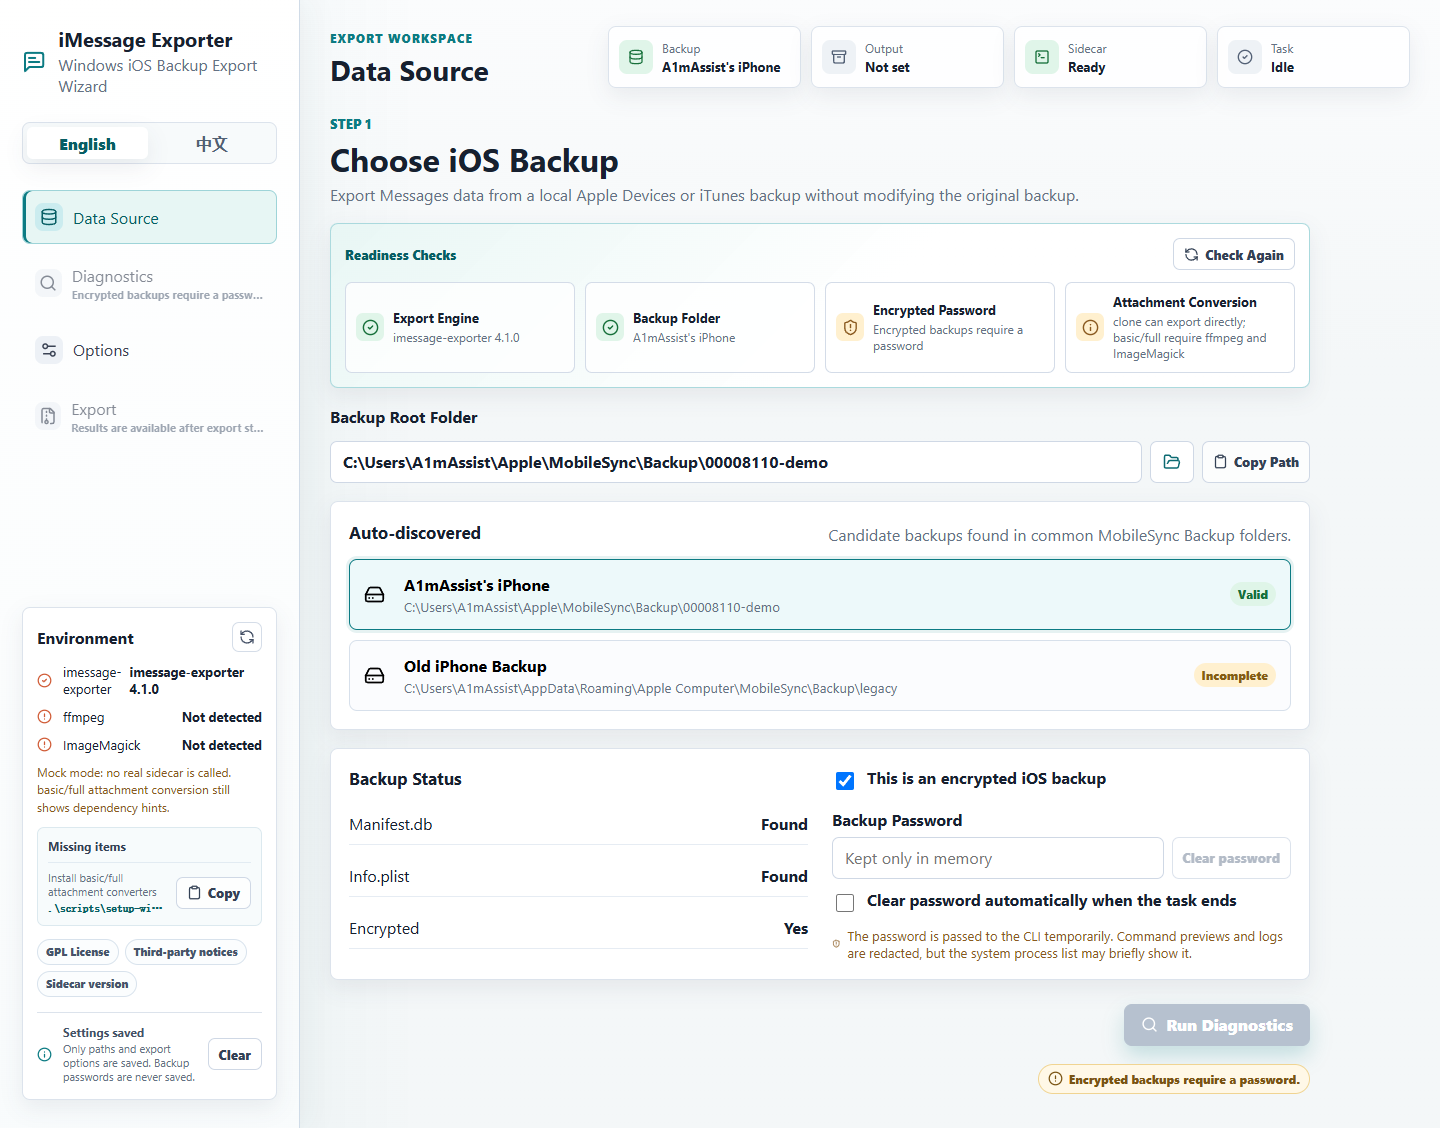
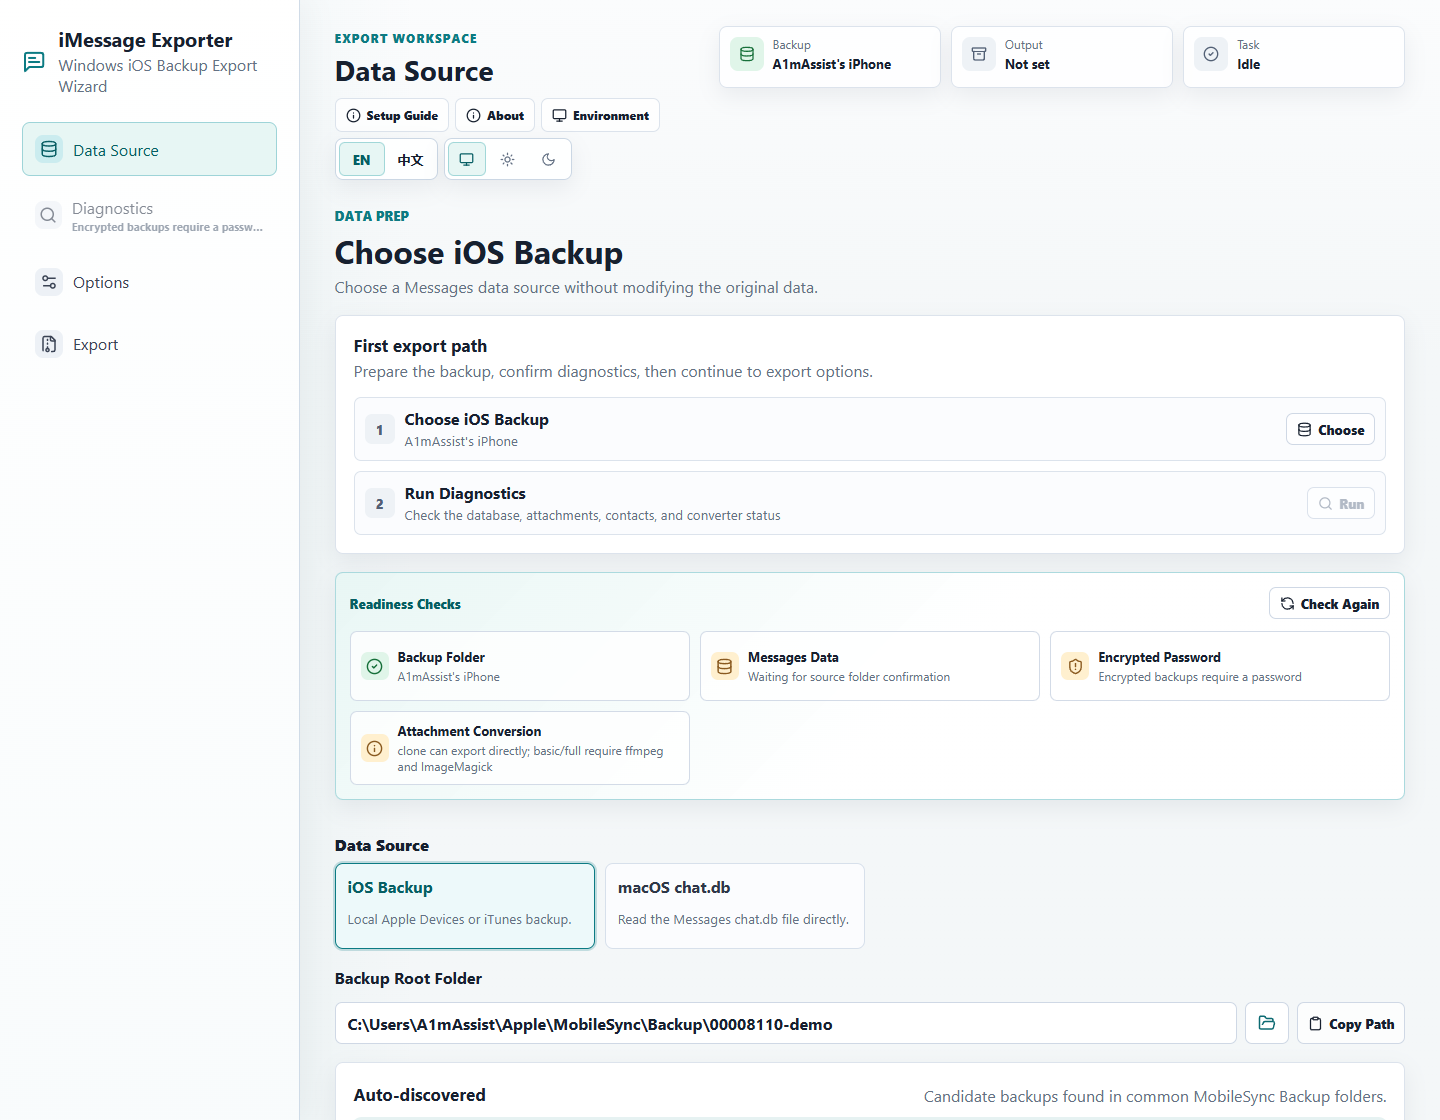
Refresh README for 0.2.2
Refresh README and screenshots for the current 0.2.2 product flow.

diff --git a/README.md b/README.md
@@ -2,9 +2,16 @@
 
 [中文说明](./README.zh-CN.md)
 
-`iMessage Exporter GUI` is a desktop interface with the [`imessage-exporter`](https://github.com/ReagentX/imessage-exporter) Rust engine built in. It exports SMS and iMessage data from local iOS backups to HTML, TXT, or JSONL.
+`iMessage Exporter GUI` is a desktop app for exporting Messages data with the
+[`imessage-exporter`](https://github.com/ReagentX/imessage-exporter) Rust engine
+built in. The installer bundles the imessage-exporter Rust engine, so it can
+export SMS and iMessage data from a local iOS backup or a macOS `chat.db` file
+to HTML, TXT, or JSONL.
 
-It turns the common export flow into a guided app: choose an iOS backup, check backup health, set export options, run the export, and open the result folder.
+The app turns the export flow into a guided workspace: choose a data source, run
+diagnostics, review export options, start the export, and open the result folder.
+Users do not need to install Rust, Node.js, Visual Studio Build Tools, or a
+separate `imessage-exporter.exe`.
 
 ## Screenshots
 
@@ -12,18 +19,19 @@ It turns the common export flow into a guided app: choose an iOS backup, check b
 
 ![Export complete](./preview/example-results.png)
 
-The `example-*` images are README screenshots. `react-mock-*` images are generated by the mock UI smoke test and are kept as release QA artifacts.
+The `example-*` images are README screenshots. `react-mock-*` images are
+generated by the mock UI smoke test and are kept as release QA artifacts.
 
 ## Download
 
-You do not need to clone the source code or install Node.js, Rust, or Visual Studio Build Tools. Download the current installer from GitHub Releases:
+Download the current installer from GitHub Releases:
 
-[Download the current release](https://github.com/A1mAssist/imessage-exporter-gui/releases)
+[Download the current release](https://github.com/A1mAssist/imessage-exporter-gui/releases/latest)
 
 Choose the file for your system:
 
 - Windows: download the `.exe` installer for the recommended normal install.
-- Windows managed deployment: use the `.msi` when your admin tooling or device-management policy expects MSI packages.
+- Windows managed deployment: use the `.msi` when your deployment tooling expects MSI packages.
 - macOS Apple Silicon or Intel: download the `.dmg`.
 
 The installers are not code-signed yet, so your system may show a safety warning:
@@ -31,68 +39,71 @@ The installers are not code-signed yet, so your system may show a safety warning
 - Windows SmartScreen: click "More info", then "Run anyway".
 - macOS Gatekeeper: right-click the app and choose "Open", or allow it in System Settings -> Privacy & Security.
 
-The installer bundles the imessage-exporter Rust engine, so users do not need to download or choose a separate `imessage-exporter.exe`. Installed builds can check GitHub Releases from the About dialog with "Check for updates"; update packages are verified by the app updater signature, but the app installers themselves are still unsigned.
+Installed builds can Check for updates from the About dialog. Update packages
+are verified by the app updater signature, but the installers themselves are
+still unsigned.
 
 ## Basic Use
 
-1. Create a local iPhone or iPad backup with Apple Devices or iTunes.
+1. Create a local iPhone or iPad backup with Apple Devices or iTunes, or locate a macOS Messages `chat.db`.
 2. Open iMessage Exporter GUI.
-3. In Data Source, choose or scan your local iOS backup folder.
-4. If the backup is encrypted, enter the backup password.
-5. Run diagnostics to check the database, attachments, and optional converters.
-6. Choose the export format, attachment strategy, date range, conversation filter, and output folder.
+3. In Data Source, choose an iOS backup folder or a macOS `chat.db` file.
+4. If the iOS backup is encrypted, enter the backup password.
+5. Run diagnostics to check the database, contacts, attachments, and optional converters.
+6. Choose the export format, attachment strategy, date range, conversation filter, naming mode, and output folder.
 7. Start the export, then open the output folder or the first result file when it completes.
 
-Use the About dialog to check for app updates and copy a support snapshot that includes the app version, platform, built-in engine version, and optional converter status.
-
-Common backup locations:
+Common data locations:
 
 ```txt
-Windows: %APPDATA%\Apple Computer\MobileSync\Backup
-macOS: ~/Library/Application Support/MobileSync/Backup
+Windows iOS backups: %APPDATA%\Apple Computer\MobileSync\Backup
+macOS iOS backups: ~/Library/Application Support/MobileSync/Backup
+macOS Messages database: ~/Library/Messages/chat.db
 ```
 
-## Feature Status
+For a copied macOS `chat.db`, you can optionally point the app at the matching
+Messages attachment folder and AddressBook database so HTML exports and contact
+names are more complete.
 
-Implemented:
+## What It Does
 
-- Guided desktop interface in English and Chinese.
-- Automatic UI language detection from the device language.
-- Light, dark, and system theme modes.
-- About and diagnostics panel with app version, update check, engine status, and copyable support snapshot.
-- Automatic update checks for installed builds through GitHub Releases.
-- Local iOS backup scanning, plus manual backup folder selection.
-- Checks for key backup files such as `Manifest.db` and `Info.plist`.
-- Built-in `imessage-exporter` Rust engine with command preview for auditability.
-- HTML/TXT/JSONL export with attachment strategy, date range, conversation filter, and display-name options.
-- Output folder checks to avoid writing into the backup folder or mixing with old exports.
-- One-click timestamped export folders, for example `Messages Export 2026-06-12 0130`.
-- Live export logs with search, stdout/stderr/error filters, and cancellation.
+- Guided English and Chinese UI with light, dark, and system theme modes.
+- Local iOS backup scanning plus manual source selection.
+- macOS `chat.db` source support with optional attachment root and contacts database paths.
+- Built-in `imessage-exporter` engine for diagnostics and exports.
+- HTML, TXT, and JSONL exports.
+- HTML attachment modes: disabled, clone, basic, and full. TXT and JSONL always skip attachment files.
+- Conversation picker that merges the same contact across multiple caller IDs and exports records in time order.
+- Filename modes: contact name, contact name + caller ID, or raw caller ID.
+- Timestamped archive folder generation, with a privacy mode that avoids contact names in folder names.
+- Per-conversation HTML output folders that keep each HTML file with its matching attachments.
+- Export progress with exact message counts, elapsed time, and estimated remaining time.
+- Interrupted `.partial` export detection, safe cleanup, and resume support when the checkpoint matches the same export settings.
+- JSONL result quick search after a successful JSONL export.
 - Diagnostic reports that can be copied or downloaded as `.txt`.
-- Passwords are not saved in local settings; logs and reports redact sensitive values.
-- Common failure hints for wrong backup passwords, incomplete backups, output folder permissions, engine compatibility issues, and missing converters.
-- Optional detection for `ffmpeg` and ImageMagick for some attachment conversion modes.
-
-Current limits:
-
-- v1 only exports from local iOS backups.
-- Windows and macOS are the supported installer targets.
-- macOS `chat.db`, jailbroken-device `sms.db`, and standalone attachment folders are not supported yet.
-- `ffmpeg` and ImageMagick are not bundled.
-- Native PDF export is not available yet; export HTML first, then print to PDF from a browser.
-- Windows and macOS builds are not code-signed yet, so installation may show system safety prompts.
+- Output folder checks to avoid writing into the data source folder or mixing with old exports by accident.
+- About and Environment dialogs with app version, engine status, updater status, dependency checks, and a copyable support snapshot.
+- Close-to-tray behavior; the tray menu can show the app again or quit when no task is active.
 
 ## Privacy And Safety
 
-- Encrypted backup passwords stay in app memory and are not saved to local settings.
-- Logs and diagnostic reports hide passwords.
-- The built-in Rust engine receives the password in-process for the current task only; it is not passed through an external command line.
-- The output folder cannot be the backup folder itself or inside the backup folder.
+- Backup passwords are kept only in app memory and are not saved to local settings.
+- Visible command previews and raw engine logs are not shown in the UI.
+- Diagnostic reports and recovery hints redact sensitive values.
+- The built-in Rust engine receives the password only for the current task.
+- Export output cannot be placed inside the selected data source.
 - Current installers are unsigned and intended for small-scale testing.
 
-## Development Verification
+## Current Limits
 
-The built-in exporter compatibility checks live in Rust tests. They use the backend's actual `diagnostics_args` and `export_args` builders and verify the generated command matrix, including JSONL, so CI catches GUI/backend parameter drift.
+- Windows and macOS are the supported installer targets.
+- Linux builds are not published.
+- iCloud-only Messages that are not present in the local backup/database cannot be exported.
+- `ffmpeg` and ImageMagick are not bundled; they are only needed for basic/full attachment conversion.
+- Native PDF export is not available yet; export HTML first, then print to PDF from a browser.
+- Windows and macOS builds are not code-signed yet.
+
+## Development Verification
 
 ```powershell
 npm run check:static
@@ -104,6 +115,11 @@ cargo check
 Pop-Location
 ```
 
+The Rust tests cover the built-in exporter option builders and backend export
+paths, including JSONL and TXT attachment disabling. The mock UI smoke test
+regenerates `react-mock-*` QA screenshots.
+
 ## License
 
-GPL-3.0-only. See [LICENSE](./LICENSE) and [THIRD_PARTY_NOTICES.md](./THIRD_PARTY_NOTICES.md).
+GPL-3.0-only. See [LICENSE](./LICENSE) and
+[THIRD_PARTY_NOTICES.md](./THIRD_PARTY_NOTICES.md).

diff --git a/README.zh-CN.md b/README.zh-CN.md
@@ -2,9 +2,13 @@
 
 [English](./README.md)
 
-`iMessage Exporter GUI` 是内置 [`imessage-exporter`](https://github.com/ReagentX/imessage-exporter) Rust 引擎的桌面图形应用，用来把本机 iOS 备份里的短信/iMessage 导出为 HTML、TXT 或 JSONL。
+`iMessage Exporter GUI` 是内置
+[`imessage-exporter`](https://github.com/ReagentX/imessage-exporter) Rust 引擎的桌面应用，
+可以把本机 iOS 备份或 macOS `chat.db` 里的短信/iMessage 导出为 HTML、TXT 或 JSONL。
 
-它把常用导出流程做成了图形界面：选择 iOS 备份、检查备份状态、设置导出选项，然后一键导出并打开结果目录。
+它把导出流程做成了向导式工作区：选择数据源、运行诊断、复核导出选项、开始导出，
+然后打开结果目录。普通用户不需要安装 Rust、Node.js、Visual Studio Build Tools，
+也不需要单独下载 `imessage-exporter.exe`。
 
 ## 界面示例
 
@@ -16,83 +20,84 @@
 
 ## 下载安装
 
-普通用户不需要拉取源码，也不需要安装 Node.js、Rust 或 Visual Studio Build Tools。直接从 GitHub Releases 下载当前安装包即可：
+从 GitHub Releases 下载当前安装包：
 
-[下载当前版本](https://github.com/A1mAssist/imessage-exporter-gui/releases)
+[下载当前版本](https://github.com/A1mAssist/imessage-exporter-gui/releases/latest)
 
 按系统选择文件：
 
 - Windows：普通个人安装推荐下载 `.exe` 安装包。
-- Windows 托管部署：如果公司设备管理、软件分发或管理员策略要求 MSI，请下载 `.msi`。
+- Windows 托管部署：如果软件分发或管理员策略要求 MSI，请下载 `.msi`。
 - macOS Apple Silicon 或 Intel：下载 `.dmg`。
 
 当前安装包还没有代码签名，所以系统可能会弹出安全提示：
 
 - Windows SmartScreen：点击“更多信息”，然后选择“仍要运行”。
-- macOS Gatekeeper：如果提示无法打开，可以右键 App 选择“打开”，或到“系统设置 -> 隐私与安全性”允许打开。
+- macOS Gatekeeper：右键 App 选择“打开”，或到“系统设置 -> 隐私与安全性”允许打开。
 
-安装包已经内置 imessage-exporter Rust 引擎，用户不需要再单独下载或选择 `imessage-exporter.exe`。安装版可以在“关于与诊断”面板里检查 GitHub Releases 更新；更新包会通过 updater 签名校验，但应用安装包本身目前仍未做代码签名。
+安装版可以在“关于与诊断”面板里自动检查更新。更新包会通过 updater
+签名校验，但应用安装包本身目前仍未做代码签名。
 
 ## 基本使用
 
-1. 用 Apple Devices 或 iTunes 在本机创建 iPhone/iPad 备份。
+1. 用 Apple Devices 或 iTunes 在本机创建 iPhone/iPad 备份，或准备 macOS Messages 的 `chat.db`。
 2. 打开 iMessage Exporter GUI。
-3. 在“数据源”步骤选择或扫描本机 iOS 备份目录。
-4. 如果备份已加密，输入备份密码。
-5. 运行诊断，确认数据库、附件和可选转换工具状态。
-6. 选择导出格式、附件策略、日期范围、会话筛选和输出目录。
-7. 开始导出，等待完成后打开输出目录或第一个结果文件。
+3. 在“数据源”里选择 iOS 备份目录或 macOS `chat.db` 文件。
+4. 如果 iOS 备份已加密，输入备份密码。
+5. 运行诊断，检查数据库、联系人、附件和可选转换工具状态。
+6. 选择导出格式、附件策略、日期范围、会话筛选、命名方式和输出目录。
+7. 开始导出，完成后打开输出目录或第一个结果文件。
 
-可以在“关于与诊断”面板里检查应用更新，并复制支持摘要；摘要会包含应用版本、平台、内置引擎版本和可选转换工具状态，便于反馈问题。
-
-常见备份位置：
+常见数据位置：
 
 ```txt
-Windows: %APPDATA%\Apple Computer\MobileSync\Backup
-macOS: ~/Library/Application Support/MobileSync/Backup
+Windows iOS 备份: %APPDATA%\Apple Computer\MobileSync\Backup
+macOS iOS 备份: ~/Library/Application Support/MobileSync/Backup
+macOS Messages 数据库: ~/Library/Messages/chat.db
 ```
 
-## 功能状态
+如果 `chat.db` 是从别的 Mac 拷出来的，可以额外指定对应的 Messages 附件目录和
+AddressBook 数据库，让 HTML 附件和联系人名称更完整。
 
-已实现：
+## 当前能力
 
-- 中英文向导式界面：数据源、诊断、导出选项、结果。
-- 根据设备语言自动选择中文或英文；如果设备语言不是中文或英文，则默认英文。
-- 支持浅色、深色和跟随系统主题。
-- “关于与诊断”面板：显示应用版本、更新检查、引擎状态和可复制的支持摘要。
-- 安装版支持通过 GitHub Releases 自动检查更新。
-- 自动扫描本机 iOS 备份，也支持手动选择备份目录。
-- 检查 `Manifest.db`、`Info.plist` 等备份关键文件。
-- 内置 `imessage-exporter` Rust 引擎，并保留命令预览便于核对参数。
-- HTML/TXT/JSONL 导出，支持附件复制策略、日期范围、会话筛选和显示名选项。
-- 输出目录检查，避免误写入备份目录或旧导出目录。
-- 一键生成带时间戳的导出目录，例如 `Messages Export 2026-06-12 0130`。
-- 导出日志实时显示，支持搜索、stdout/stderr/error 过滤和取消任务。
+- 中英文向导式界面，支持浅色、深色和跟随系统主题。
+- 自动扫描本机 iOS 备份，也支持手动选择数据源。
+- 支持 macOS `chat.db` 数据源，可选附件根目录和联系人数据库。
+- 内置 `imessage-exporter` 引擎，诊断和导出都直接调用内置模块。
+- 支持 HTML、TXT、JSONL 导出。
+- HTML 附件模式：disabled、clone、basic、full。TXT 和 JSONL 始终不处理附件文件。
+- 会话选择器会把同一联系人下的多个 caller ID 合并为一个联系人，导出记录按时间顺序输出。
+- 结果文件命名支持联系人名、联系人名 + Caller ID、原始 Caller ID。
+- 一键生成带时间戳的归档目录，也可以选择不在目录名里暴露联系人名。
+- HTML 带附件导出时，每个对话会生成自己的文件夹，HTML 文件和对应附件放在一起。
+- 导出进度显示精确消息数量、已用时间和预计剩余时间。
+- 检测未完成的 `.partial` 导出目录；设置一致且带断点记录时自动续写，也支持安全删除旧半成品。
+- JSONL 导出完成后可以在应用内快速搜索结果。
 - 诊断报告可复制或下载为 `.txt`。
-- 密码不会写入本地设置；日志和诊断报告会隐藏敏感信息。
-- 识别常见失败原因：备份密码错误、备份不完整、输出目录权限不足、引擎兼容性问题、转换工具缺失。
-- 可选检测 `ffmpeg` 和 ImageMagick，用于部分附件转换模式。
-
-当前限制：
-
-- v1 只面向本机 iOS 备份导出。
-- 当前安装包只面向 Windows 和 macOS。
-- 暂不支持直接读取 macOS `chat.db`、越狱设备 `sms.db` 或独立附件目录。
-- 暂不内置 `ffmpeg` 和 ImageMagick。
-- 暂无原生 PDF 导出；可以先导出 HTML，再用浏览器打印为 PDF。
-- 当前未做 Windows/macOS 代码签名，因此安装时可能有系统安全提示。
+- 输出目录会提前检查，避免写入数据源目录或误混入旧导出。
+- “关于与诊断”和“运行环境”面板会显示应用版本、引擎状态、更新状态、依赖检查和可复制支持摘要。
+- 点击关闭窗口会最小化到托盘；托盘菜单可重新显示窗口，空闲时可退出。
 
 ## 隐私与安全
 
-- 加密备份密码只保存在应用运行状态里，不写入本地设置。
-- 日志和诊断报告会隐藏密码。
-- 内置 Rust 引擎只会在本次任务进程内接收密码，不再通过外部命令行传递。
-- 导出目录不能是备份目录本身，也不能位于备份目录内部。
-- 当前安装包未签名，安装时可能出现系统安全提示。
+- 备份密码只保存在应用内存中，不写入本地设置。
+- UI 不再显示命令预览或原始引擎日志。
+- 诊断报告和恢复提示会隐藏敏感值。
+- 内置 Rust 引擎只在本次任务中接收密码。
+- 导出目录不能放在所选数据源内部。
+- 当前安装包未签名，适合小范围测试使用。
+
+## 当前限制
+
+- 当前发布的安装包只面向 Windows 和 macOS。
+- 暂不发布 Linux 构建。
+- 只存在于 iCloud、没有落到本机备份或本机数据库里的消息无法导出。
+- 暂不内置 `ffmpeg` 和 ImageMagick；只有 basic/full 附件转换模式需要它们。
+- 暂无原生 PDF 导出；可以先导出 HTML，再用浏览器打印为 PDF。
+- 当前未做 Windows/macOS 代码签名。
 
 ## 开发验证
-
-内置 exporter 兼容性检查放在 Rust 测试里。测试会调用后端实际使用的 `diagnostics_args` 和 `export_args`，验证包含 JSONL 在内的 GUI 命令矩阵，避免 CI 只覆盖 mock UI。
 
 ```powershell
 npm run check:static
@@ -103,6 +108,9 @@ cargo test
 cargo check
 Pop-Location
 ```
+
+Rust 测试覆盖内置 exporter 的选项构造和后端导出路径，包括 JSONL、TXT 附件禁用等行为。
+mock UI 烟测会重新生成 `react-mock-*` QA 截图。
 
 ## 许可证
 
